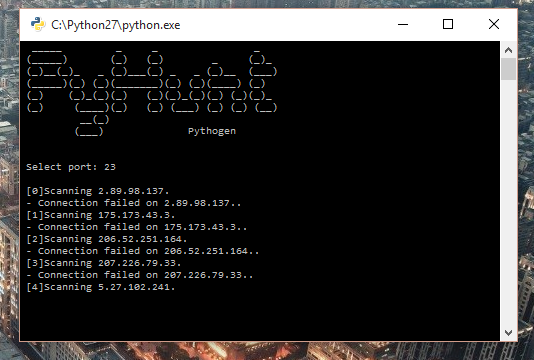
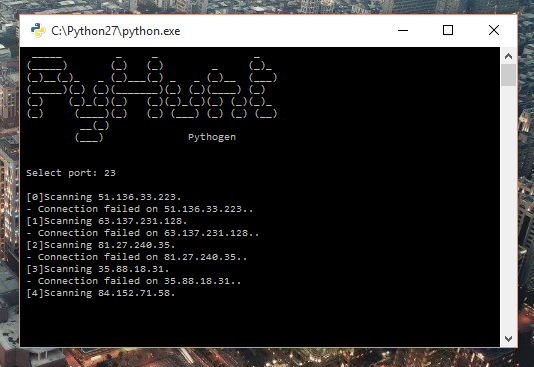
pyHunt - Rand(IP) - Port Scanner

Changed region(s): [[0.0, 0.0, 1.0, 1.0]]

diff --git a/Projects/pyHunt/scanner.py b/Projects/pyHunt/scanner.py
@@ -25,7 +25,7 @@ def Main():
 	global oct4
 	global portNum
 	global chStart
-	oct1 = random.randint(1,255)
+	oct1 = random.randint(20,120)
 	oct2 = random.randint(1,255)
 	oct3 = random.randint(1,255)
 	oct4 = random.randint(1,255)
